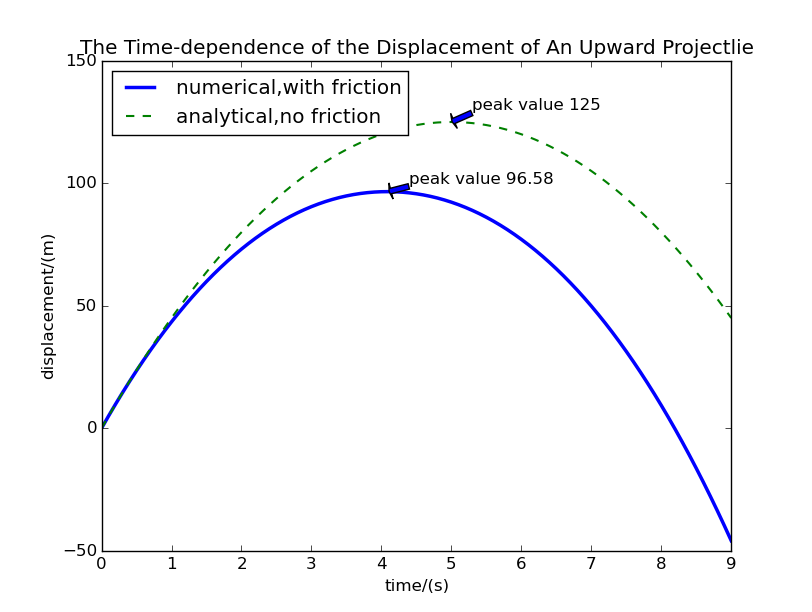
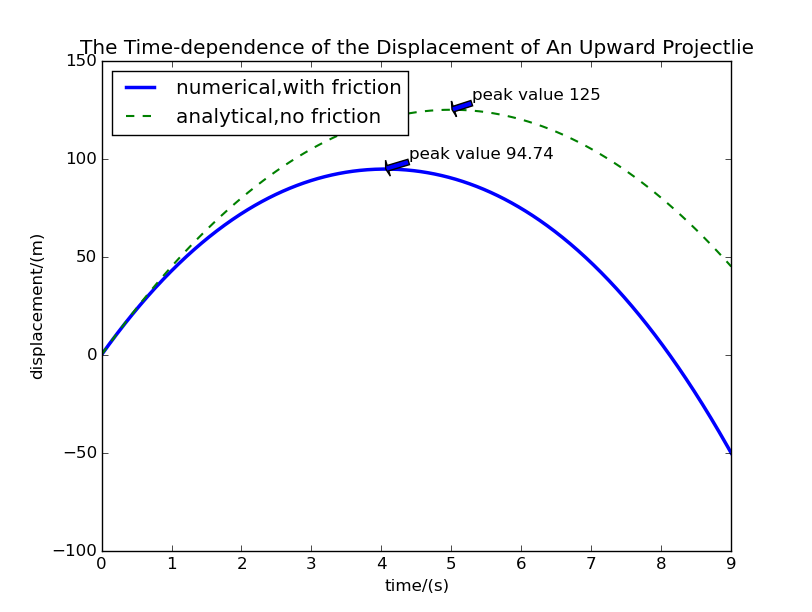
chapter1第二次作业

diff --git a/chapter1.2/projectile.py b/chapter1.2/projectile.py
@@ -1,33 +1,35 @@
+# -*- coding: UTF-8 -*-
 import matplotlib.pyplot as plt
 import numpy as np
 y=np.linspace(0.0,9.0,91)
-def f(y): return 50*y-5*y**2
+def f(y): return 50*y-5*y**2       #无空气阻力情况下解析解
 x=[];v=[];t=[]
-dt=0.1;g=-10;end_time=9;b=0.01
+dt=0.01;g=-10;end_time=9;b=0.1
 x.append(0.0);v.append(50);t.append(0.0)
-for i in range(int(end_time/dt)):
-    if v[-1]>=0:
-        x_tmp=x[-1]+dt*v[-1]
+for i in range(int(end_time/dt)):  
+    if v[-1]>=0:                      
+        x_tmp=x[-1]+dt*v[-1]     #由于空气阻力在上升与下降过程中方向反向，故而根据速度的正负情况选择阻力方向
         x.append(x_tmp)
-        v_tmp=v[-1]+dt*g-b*v[-1]
+        v_tmp=v[-1]+dt*g-b*dt*v[-1]  #该式体现了物体的速度受重力和阻力的双重影响
         v.append(v_tmp)
         t.append(dt*(i+1))
         print t[-1],v[-1],x[-1]
     else:
         x_tmp=x[-1]+dt*v[-1]
         x.append(x_tmp)
-        v_tmp=v[-1]+dt*g+b*v[-1]
+        v_tmp=v[-1]+dt*g+b*dt*v[-1]
         v.append(v_tmp)
         t.append(dt*(i+1))
         print t[-1],v[-1],x[-1]
 
 line1,=plt.plot(t,x,color='blue',linewidth=2.5,linestyle='-')
 line2,=plt.plot(y,f(y),color='green',linewidth=1.5,linestyle='--')
-plt.xlabel("time/(s)");plt.ylabel('displacement/(m)')
-plt.legend((line1,line2),('numerical,with friction','analysis,no friction'),loc='upper left')
+plt.xlabel("time/(s)");plt.ylabel('displacement/(m)')                  #给图确定图例　
+plt.legend((line1,line2),('numerical,with friction',
+'analytical,no friction'),loc='upper left')
 plt.title('The Time-dependence of the Displacement of An Upward Projectlie')
-plt.annotate('peak value 96.58',xy=(4.1,96.58),xytext=(4.4,100),
+plt.annotate('peak value 94.74',xy=(4.05,94.738),xytext=(4.4,100),
 arrowprops=dict(facecolor='blue',shrink=0.03))
 plt.annotate('peak value 125',xy=(5.0,125),xytext=(5.3,130),
-arrowprops=dict(facecolor='blue',shrink=0.03))
+arrowprops=dict(facecolor='blue',shrink=0.03))          #分别标出有阻力数值解和无阻力解析解的极大值
 plt.show()
